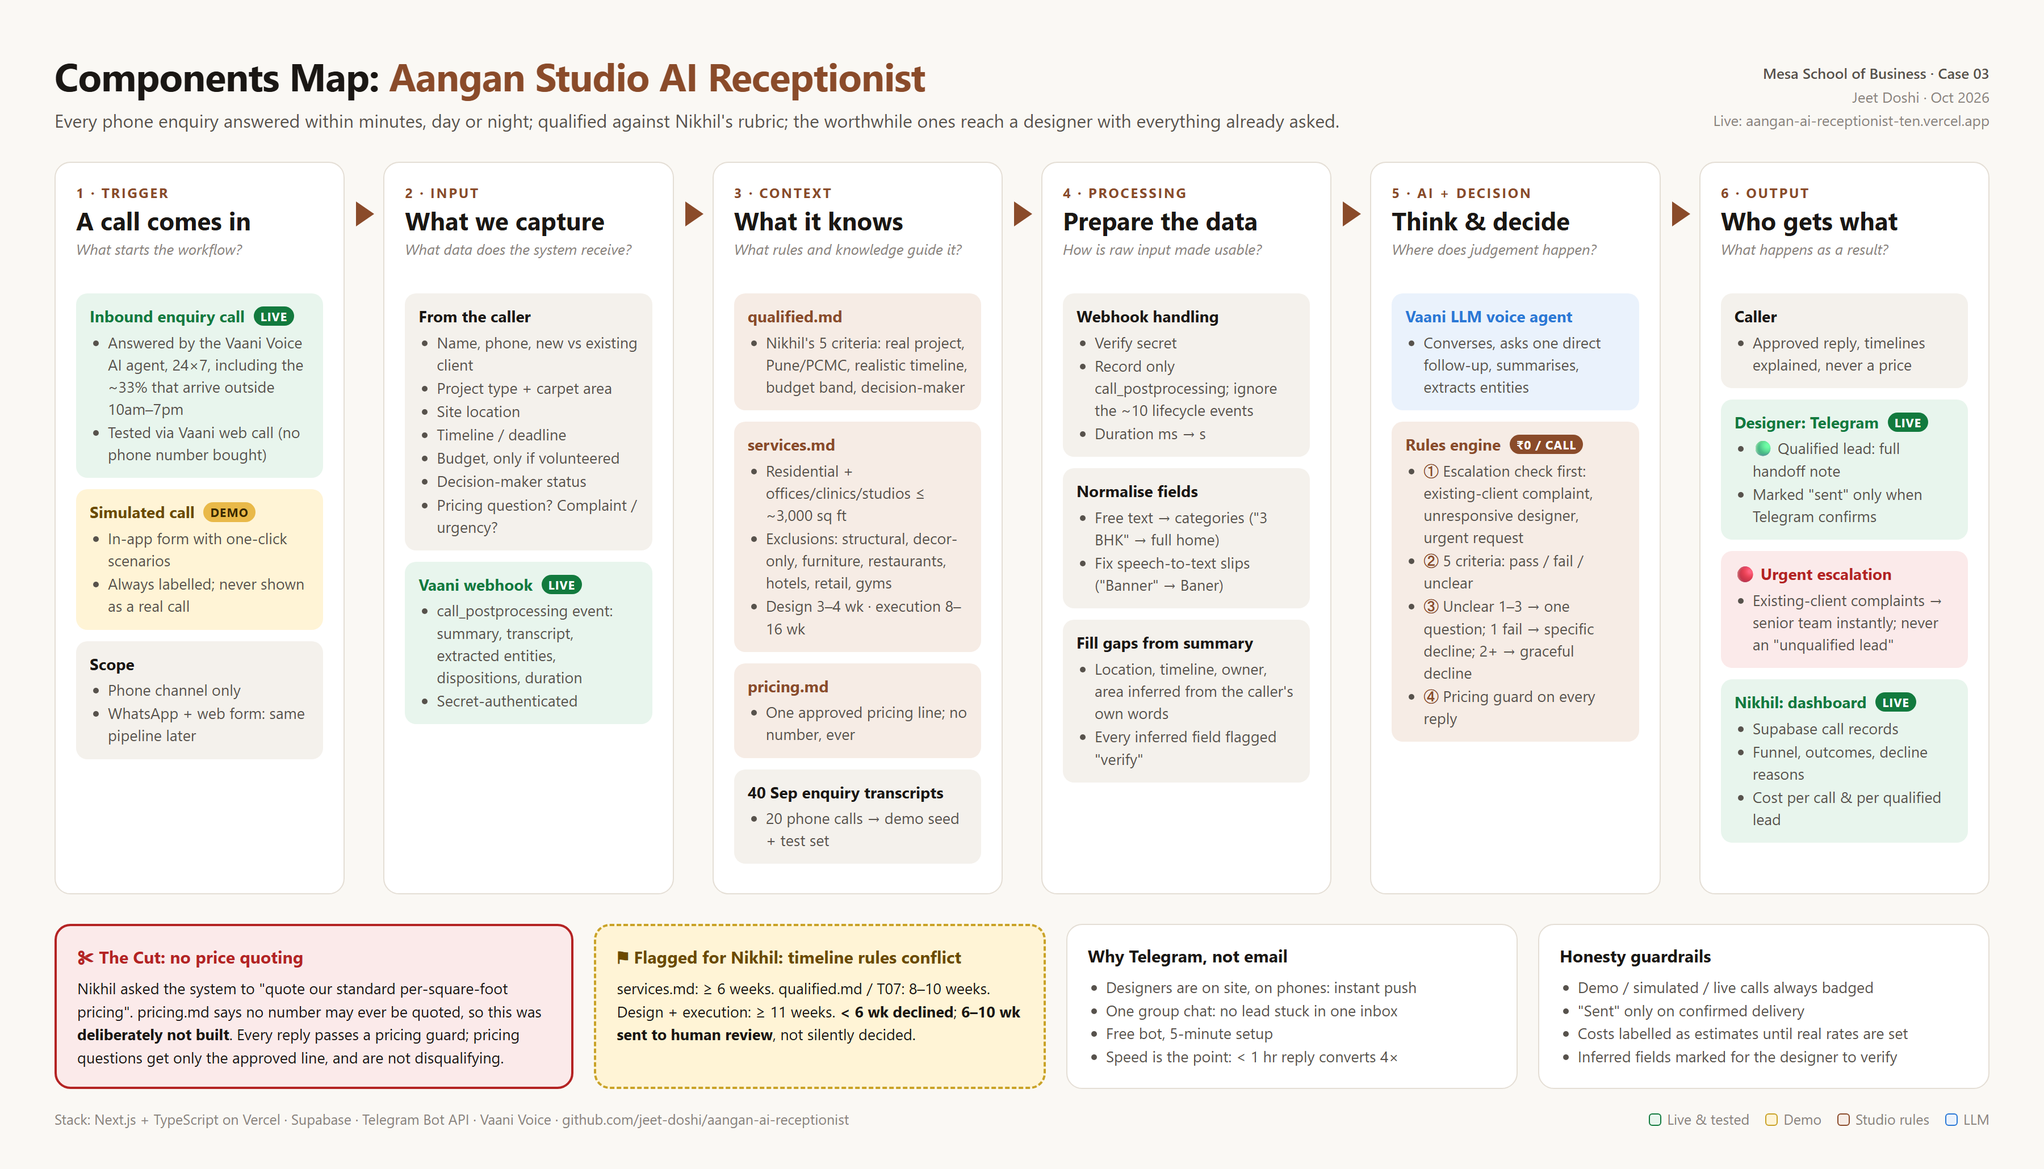
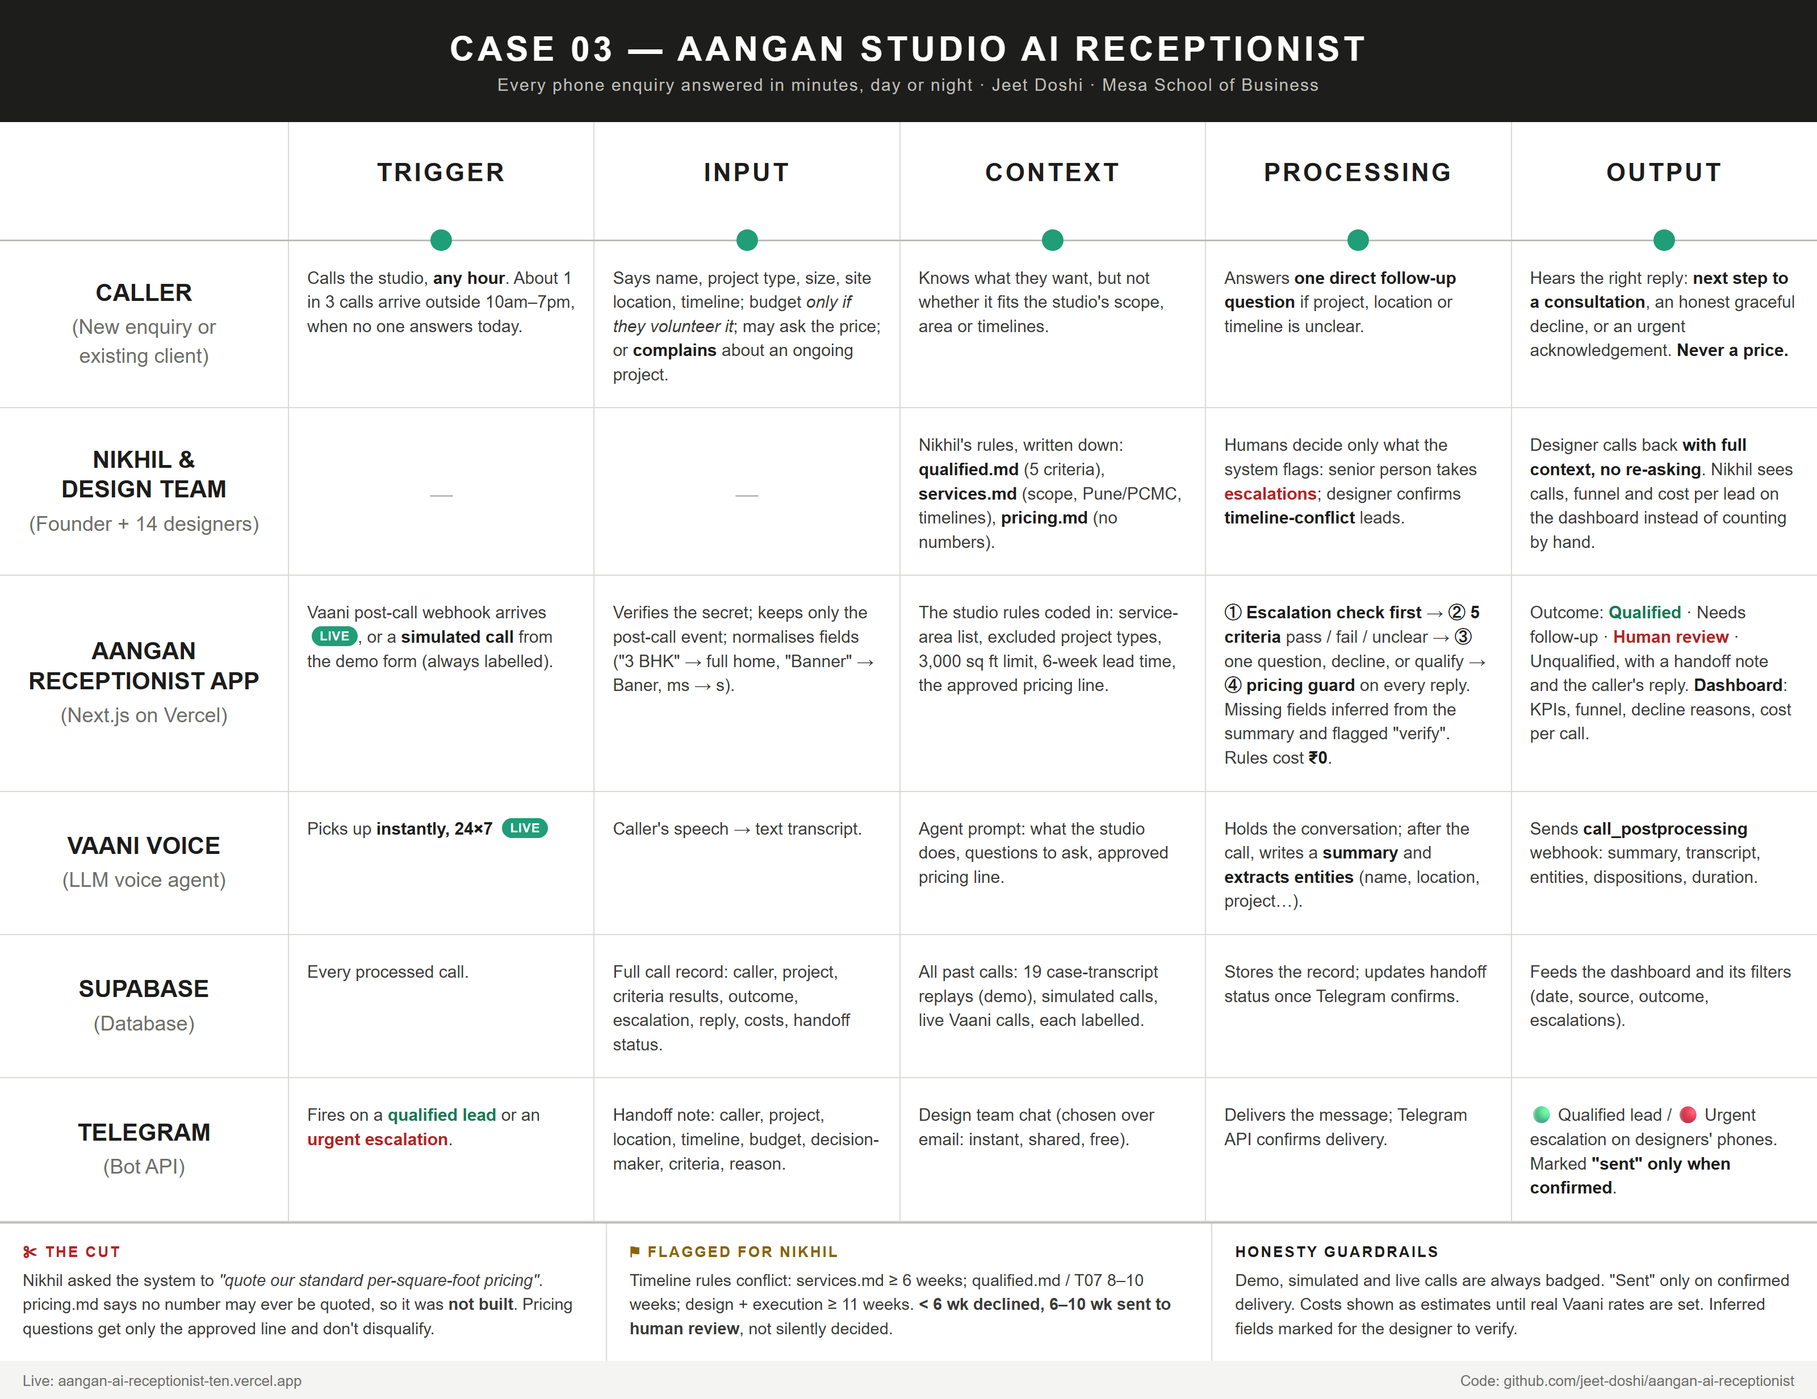
Redo Components Map in the class grid format (actors × Trigger→Output)

diff --git a/docs/components-map.html b/docs/components-map.html
@@ -4,173 +4,99 @@
 <meta charset="utf-8">
 <title>Components Map: Aangan AI Receptionist</title>
 <style>
-  :root {
-    --ink: #1a1714; --ink-2: #57524c; --muted: #8a847c; --line: #e4ded5; --page: #faf8f4; --card: #ffffff;
-    --brand: #8a4b2a; --brand-soft: #f6ece5; --blue: #2a78d6; --blue-soft: #eaf2fc;
-    --green: #127a3e; --green-soft: #e8f5ed; --red: #b42323; --red-soft: #fbeaea; --amber-soft: #fff4d6; --amber: #6b4a00;
-  }
   * { box-sizing: border-box; margin: 0; padding: 0; }
-  body { width: 1800px; background: var(--page); color: var(--ink); font-family: "Segoe UI", system-ui, sans-serif; padding: 44px 48px 40px; }
-  header { display: flex; justify-content: space-between; align-items: flex-end; margin-bottom: 26px; }
-  h1 { font-size: 34px; letter-spacing: -0.5px; }
-  h1 span { color: var(--brand); }
-  .sub { color: var(--ink-2); font-size: 16px; margin-top: 6px; }
-  .meta { text-align: right; color: var(--muted); font-size: 13px; line-height: 1.6; }
-  .meta b { color: var(--ink-2); font-weight: 600; }
-
-  .flow { display: grid; grid-template-columns: repeat(6, 1fr); gap: 34px; position: relative; }
-  .stage { background: var(--card); border: 1px solid var(--line); border-radius: 14px; padding: 18px 18px 16px; position: relative; display: flex; flex-direction: column; }
-  .stage:not(:last-child)::after {
-    content: ""; position: absolute; right: -27px; top: 34px; width: 0; height: 0;
-    border-top: 11px solid transparent; border-bottom: 11px solid transparent; border-left: 16px solid var(--brand);
-  }
-  .step { font-size: 12px; font-weight: 700; letter-spacing: 1.4px; color: var(--brand); text-transform: uppercase; }
-  .stage h2 { font-size: 22px; margin: 2px 0 2px; }
-  .q { font-size: 13px; color: var(--muted); font-style: italic; margin-bottom: 14px; min-height: 34px; }
-  .box { border-radius: 10px; padding: 10px 12px; margin-bottom: 10px; font-size: 13.5px; line-height: 1.45; }
-  .box b { display: block; font-size: 14px; margin-bottom: 3px; }
-  .box ul { padding-left: 16px; color: var(--ink-2); }
-  .box li { margin: 1px 0; }
-  .plain { background: #f4f1ec; }
-  .live { background: var(--green-soft); }
-  .live b { color: var(--green); }
-  .demo { background: var(--amber-soft); }
-  .demo b { color: var(--amber); }
-  .ai { background: var(--blue-soft); }
-  .ai b { color: var(--blue); }
-  .rules { background: var(--brand-soft); }
-  .rules b { color: var(--brand); }
-  .urgent { background: var(--red-soft); }
-  .urgent b { color: var(--red); }
-  .tag { display: inline-block; font-size: 10.5px; font-weight: 700; letter-spacing: .6px; padding: 1px 6px; border-radius: 99px; margin-left: 4px; vertical-align: 1px; }
-  .t-live { background: var(--green); color: #fff; }
-  .t-demo { background: #e9b949; color: #3a2a00; }
-  .t-free { background: var(--brand); color: #fff; }
-
-  .bottom { display: grid; grid-template-columns: 1.15fr 1fr 1fr 1fr; gap: 18px; margin-top: 26px; }
-  .panel { border-radius: 14px; padding: 16px 18px; font-size: 13.5px; line-height: 1.5; border: 1px solid var(--line); background: var(--card); }
-  .panel h3 { font-size: 15px; margin-bottom: 6px; }
-  .panel ul { padding-left: 16px; color: var(--ink-2); }
-  .cut { border: 2px solid var(--red); background: var(--red-soft); }
-  .cut h3 { color: var(--red); }
-  .flag { border: 2px dashed #c9a227; background: var(--amber-soft); }
-  .flag h3 { color: var(--amber); }
-  footer { margin-top: 18px; display: flex; justify-content: space-between; color: var(--muted); font-size: 12.5px; }
-  .legend span { margin-left: 14px; }
-  .sw { display: inline-block; width: 11px; height: 11px; border-radius: 3px; vertical-align: -1px; margin-right: 5px; }
+  body { width: 1600px; background: #fff; color: #1d1d1b; font-family: Arial, "Helvetica Neue", "Segoe UI", sans-serif; }
+  .bar { background: #1d1d1b; color: #fff; text-align: center; padding: 26px 0 24px; font-size: 30px; font-weight: 700; letter-spacing: 3px; }
+  .bar small { display: block; font-size: 15px; font-weight: 400; letter-spacing: 1px; color: #bdbdb8; margin-top: 6px; }
+  table { width: 100%; border-collapse: collapse; table-layout: fixed; }
+  col.label { width: 254px; }
+  th { height: 104px; font-size: 22px; letter-spacing: 2px; font-weight: 700; position: relative; border-left: 1px solid #d9d9d6; border-bottom: 1.5px solid #bdbdb8; vertical-align: middle; padding-bottom: 14px; }
+  th:first-child { border-left: none; }
+  th:not(:first-child)::after { content: ""; position: absolute; left: 50%; bottom: -10px; width: 19px; height: 19px; margin-left: -9.5px; border-radius: 50%; background: #1f9e78; }
+  td { border: 1px solid #d9d9d6; vertical-align: top; padding: 22px 16px 18px; font-size: 15px; line-height: 1.42; color: #3b3b38; }
+  tr td:first-child { border-left: none; vertical-align: middle; text-align: center; padding: 18px 12px; }
+  tr td:last-child { border-right: none; }
+  .who { font-size: 21px; font-weight: 700; color: #1d1d1b; line-height: 1.25; }
+  .role { font-size: 18px; color: #6f6f6b; margin-top: 4px; }
+  .none { color: #b9b9b5; text-align: center; vertical-align: middle; font-size: 20px; }
+  td b { color: #1d1d1b; }
+  .live { display: inline-block; font-size: 11px; font-weight: 700; letter-spacing: .5px; background: #1f9e78; color: #fff; border-radius: 99px; padding: 1px 7px; margin-left: 4px; vertical-align: 2px; }
+  .red { color: #b42323; font-weight: 700; }
+  .green { color: #157a52; font-weight: 700; }
+  .notes { display: grid; grid-template-columns: 1fr 1fr 1fr; border-top: 1.5px solid #bdbdb8; }
+  .notes div { padding: 16px 20px 18px; font-size: 14.5px; line-height: 1.45; color: #3b3b38; border-left: 1px solid #d9d9d6; }
+  .notes div:first-child { border-left: none; }
+  .notes h4 { font-size: 13px; letter-spacing: 1.5px; text-transform: uppercase; margin-bottom: 5px; color: #1d1d1b; }
+  .notes .cut h4 { color: #b42323; }
+  .notes .flag h4 { color: #8a6400; }
+  .foot { background: #f4f4f2; font-size: 13px; color: #6f6f6b; padding: 10px 20px; display: flex; justify-content: space-between; }
 </style>
 </head>
 <body>
-  <header>
-    <div>
-      <h1>Components Map: <span>Aangan Studio AI Receptionist</span></h1>
-      <p class="sub">Every phone enquiry answered within minutes, day or night; qualified against Nikhil's rubric; the worthwhile ones reach a designer with everything already asked.</p>
-    </div>
-    <div class="meta"><b>Mesa School of Business · Case 03</b><br>Jeet Doshi · Oct 2026<br>Live: aangan-ai-receptionist-ten.vercel.app</div>
-  </header>
+  <div class="bar">CASE 03 — AANGAN STUDIO AI RECEPTIONIST<small>Every phone enquiry answered in minutes, day or night · Jeet Doshi · Mesa School of Business</small></div>
+  <table>
+    <colgroup><col class="label"><col><col><col><col><col></colgroup>
+    <tr><th></th><th>TRIGGER</th><th>INPUT</th><th>CONTEXT</th><th>PROCESSING</th><th>OUTPUT</th></tr>
 
-  <section class="flow">
-    <!-- 1 TRIGGER -->
-    <div class="stage">
-      <div class="step">1 · Trigger</div>
-      <h2>A call comes in</h2>
-      <p class="q">What starts the workflow?</p>
-      <div class="box live"><b>Inbound enquiry call <span class="tag t-live">LIVE</span></b>
-        <ul><li>Answered by the Vaani Voice AI agent, 24×7, including the ~33% that arrive outside 10am–7pm</li><li>Tested via Vaani web call (no phone number bought)</li></ul></div>
-      <div class="box demo"><b>Simulated call <span class="tag t-demo">DEMO</span></b>
-        <ul><li>In-app form with one-click scenarios</li><li>Always labelled; never shown as a real call</li></ul></div>
-      <div class="box plain"><b>Scope</b>
-        <ul><li>Phone channel only</li><li>WhatsApp + web form: same pipeline later</li></ul></div>
-    </div>
+    <tr>
+      <td><div class="who">CALLER</div><div class="role">(New enquiry or<br>existing client)</div></td>
+      <td>Calls the studio, <b>any hour</b>. About 1 in 3 calls arrive outside 10am–7pm, when no one answers today.</td>
+      <td>Says name, project type, size, site location, timeline; budget <i>only if they volunteer it</i>; may ask the price; or <b>complains</b> about an ongoing project.</td>
+      <td>Knows what they want, but not whether it fits the studio's scope, area or timelines.</td>
+      <td>Answers <b>one direct follow-up question</b> if project, location or timeline is unclear.</td>
+      <td>Hears the right reply: <b>next step to a consultation</b>, an honest graceful decline, or an urgent acknowledgement. <b>Never a price.</b></td>
+    </tr>
 
-    <!-- 2 INPUT -->
-    <div class="stage">
-      <div class="step">2 · Input</div>
-      <h2>What we capture</h2>
-      <p class="q">What data does the system receive?</p>
-      <div class="box plain"><b>From the caller</b>
-        <ul><li>Name, phone, new vs existing client</li><li>Project type + carpet area</li><li>Site location</li><li>Timeline / deadline</li><li>Budget, only if volunteered</li><li>Decision-maker status</li><li>Pricing question? Complaint / urgency?</li></ul></div>
-      <div class="box live"><b>Vaani webhook <span class="tag t-live">LIVE</span></b>
-        <ul><li>call_postprocessing event: summary, transcript, extracted entities, dispositions, duration</li><li>Secret-authenticated</li></ul></div>
-    </div>
+    <tr>
+      <td><div class="who">NIKHIL &amp;<br>DESIGN TEAM</div><div class="role">(Founder + 14 designers)</div></td>
+      <td class="none">—</td>
+      <td class="none">—</td>
+      <td>Nikhil's rules, written down: <b>qualified.md</b> (5 criteria), <b>services.md</b> (scope, Pune/PCMC, timelines), <b>pricing.md</b> (no numbers).</td>
+      <td>Humans decide only what the system flags: senior person takes <span class="red">escalations</span>; designer confirms <b>timeline-conflict</b> leads.</td>
+      <td>Designer calls back <b>with full context, no re-asking</b>. Nikhil sees calls, funnel and cost per lead on the dashboard instead of counting by hand.</td>
+    </tr>
 
-    <!-- 3 CONTEXT -->
-    <div class="stage">
-      <div class="step">3 · Context</div>
-      <h2>What it knows</h2>
-      <p class="q">What rules and knowledge guide it?</p>
-      <div class="box rules"><b>qualified.md</b>
-        <ul><li>Nikhil's 5 criteria: real project, Pune/PCMC, realistic timeline, budget band, decision-maker</li></ul></div>
-      <div class="box rules"><b>services.md</b>
-        <ul><li>Residential + offices/clinics/studios ≤ ~3,000 sq ft</li><li>Exclusions: structural, decor-only, furniture, restaurants, hotels, retail, gyms</li><li>Design 3–4 wk · execution 8–16 wk</li></ul></div>
-      <div class="box rules"><b>pricing.md</b>
-        <ul><li>One approved pricing line; no number, ever</li></ul></div>
-      <div class="box plain"><b>40 Sep enquiry transcripts</b>
-        <ul><li>20 phone calls → demo seed + test set</li></ul></div>
-    </div>
+    <tr>
+      <td><div class="who">AANGAN<br>RECEPTIONIST APP</div><div class="role">(Next.js on Vercel)</div></td>
+      <td>Vaani post-call webhook arrives <span class="live">LIVE</span>, or a <b>simulated call</b> from the demo form (always labelled).</td>
+      <td>Verifies the secret; keeps only the post-call event; normalises fields ("3 BHK" → full home, "Banner" → Baner, ms → s).</td>
+      <td>The studio rules coded in: service-area list, excluded project types, 3,000 sq ft limit, 6-week lead time, the approved pricing line.</td>
+      <td><b>① Escalation check first</b> → <b>② 5 criteria</b> pass / fail / unclear → <b>③</b> one question, decline, or qualify → <b>④ pricing guard</b> on every reply. Missing fields inferred from the summary and flagged "verify". Rules cost <b>₹0</b>.</td>
+      <td>Outcome: <span class="green">Qualified</span> · Needs follow-up · <span class="red">Human review</span> · Unqualified, with a handoff note and the caller's reply. <b>Dashboard</b>: KPIs, funnel, decline reasons, cost per call.</td>
+    </tr>
 
-    <!-- 4 PROCESSING -->
-    <div class="stage">
-      <div class="step">4 · Processing</div>
-      <h2>Prepare the data</h2>
-      <p class="q">How is raw input made usable?</p>
-      <div class="box plain"><b>Webhook handling</b>
-        <ul><li>Verify secret</li><li>Record only call_postprocessing; ignore the ~10 lifecycle events</li><li>Duration ms → s</li></ul></div>
-      <div class="box plain"><b>Normalise fields</b>
-        <ul><li>Free text → categories ("3 BHK" → full home)</li><li>Fix speech-to-text slips ("Banner" → Baner)</li></ul></div>
-      <div class="box plain"><b>Fill gaps from summary</b>
-        <ul><li>Location, timeline, owner, area inferred from the caller's own words</li><li>Every inferred field flagged "verify"</li></ul></div>
-    </div>
+    <tr>
+      <td><div class="who">VAANI VOICE</div><div class="role">(LLM voice agent)</div></td>
+      <td>Picks up <b>instantly, 24×7</b> <span class="live">LIVE</span></td>
+      <td>Caller's speech → text transcript.</td>
+      <td>Agent prompt: what the studio does, questions to ask, approved pricing line.</td>
+      <td>Holds the conversation; after the call, writes a <b>summary</b> and <b>extracts entities</b> (name, location, project…).</td>
+      <td>Sends <b>call_postprocessing</b> webhook: summary, transcript, entities, dispositions, duration.</td>
+    </tr>
 
-    <!-- 5 AI -->
-    <div class="stage">
-      <div class="step">5 · AI + decision</div>
-      <h2>Think &amp; decide</h2>
-      <p class="q">Where does judgement happen?</p>
-      <div class="box ai"><b>Vaani LLM voice agent</b>
-        <ul><li>Converses, asks one direct follow-up, summarises, extracts entities</li></ul></div>
-      <div class="box rules"><b>Rules engine <span class="tag t-free">₹0 / CALL</span></b>
-        <ul><li><b style="display:inline;font-size:13px">①</b> Escalation check first: existing-client complaint, unresponsive designer, urgent request</li><li><b style="display:inline;font-size:13px">②</b> 5 criteria: pass / fail / unclear</li><li><b style="display:inline;font-size:13px">③</b> Unclear 1–3 → one question; 1 fail → specific decline; 2+ → graceful decline</li><li><b style="display:inline;font-size:13px">④</b> Pricing guard on every reply</li></ul></div>
-    </div>
+    <tr>
+      <td><div class="who">SUPABASE</div><div class="role">(Database)</div></td>
+      <td>Every processed call.</td>
+      <td>Full call record: caller, project, criteria results, outcome, escalation, reply, costs, handoff status.</td>
+      <td>All past calls: 19 case-transcript replays (demo), simulated calls, live Vaani calls, each labelled.</td>
+      <td>Stores the record; updates handoff status once Telegram confirms.</td>
+      <td>Feeds the dashboard and its filters (date, source, outcome, escalations).</td>
+    </tr>
 
-    <!-- 6 OUTPUT -->
-    <div class="stage">
-      <div class="step">6 · Output</div>
-      <h2>Who gets what</h2>
-      <p class="q">What happens as a result?</p>
-      <div class="box plain"><b>Caller</b>
-        <ul><li>Approved reply, timelines explained, never a price</li></ul></div>
-      <div class="box live"><b>Designer: Telegram <span class="tag t-live">LIVE</span></b>
-        <ul><li>🟢 Qualified lead: full handoff note</li><li>Marked "sent" only when Telegram confirms</li></ul></div>
-      <div class="box urgent"><b>🔴 Urgent escalation</b>
-        <ul><li>Existing-client complaints → senior team instantly; never an "unqualified lead"</li></ul></div>
-      <div class="box live"><b>Nikhil: dashboard <span class="tag t-live">LIVE</span></b>
-        <ul><li>Supabase call records</li><li>Funnel, outcomes, decline reasons</li><li>Cost per call &amp; per qualified lead</li></ul></div>
-    </div>
-  </section>
-
-  <section class="bottom">
-    <div class="panel cut">
-      <h3>✂ The Cut: no price quoting</h3>
-      <p>Nikhil asked the system to "quote our standard per-square-foot pricing". pricing.md says no number may ever be quoted, so this was <b>deliberately not built</b>. Every reply passes a pricing guard; pricing questions get only the approved line, and are not disqualifying.</p>
-    </div>
-    <div class="panel flag">
-      <h3>⚑ Flagged for Nikhil: timeline rules conflict</h3>
-      <p>services.md: ≥ 6 weeks. qualified.md / T07: 8–10 weeks. Design + execution: ≥ 11 weeks. <b>&lt; 6 wk declined</b>; <b>6–10 wk sent to human review</b>, not silently decided.</p>
-    </div>
-    <div class="panel">
-      <h3>Why Telegram, not email</h3>
-      <ul><li>Designers are on site, on phones: instant push</li><li>One group chat: no lead stuck in one inbox</li><li>Free bot, 5-minute setup</li><li>Speed is the point: &lt; 1 hr reply converts 4×</li></ul>
-    </div>
-    <div class="panel">
-      <h3>Honesty guardrails</h3>
-      <ul><li>Demo / simulated / live calls always badged</li><li>"Sent" only on confirmed delivery</li><li>Costs labelled as estimates until real rates are set</li><li>Inferred fields marked for the designer to verify</li></ul>
-    </div>
-  </section>
-
-  <footer>
-    <div>Stack: Next.js + TypeScript on Vercel · Supabase · Telegram Bot API · Vaani Voice · github.com/jeet-doshi/aangan-ai-receptionist</div>
-    <div class="legend"><span><i class="sw" style="background:var(--green-soft);border:1px solid var(--green)"></i>Live &amp; tested</span><span><i class="sw" style="background:var(--amber-soft);border:1px solid #c9a227"></i>Demo</span><span><i class="sw" style="background:var(--brand-soft);border:1px solid var(--brand)"></i>Studio rules</span><span><i class="sw" style="background:var(--blue-soft);border:1px solid var(--blue)"></i>LLM</span></div>
-  </footer>
+    <tr>
+      <td><div class="who">TELEGRAM</div><div class="role">(Bot API)</div></td>
+      <td>Fires on a <span class="green">qualified lead</span> or an <span class="red">urgent escalation</span>.</td>
+      <td>Handoff note: caller, project, location, timeline, budget, decision-maker, criteria, reason.</td>
+      <td>Design team chat (chosen over email: instant, shared, free).</td>
+      <td>Delivers the message; Telegram API confirms delivery.</td>
+      <td>🟢 Qualified lead / 🔴 Urgent escalation on designers' phones. Marked <b>"sent" only when confirmed</b>.</td>
+    </tr>
+  </table>
+  <div class="notes">
+    <div class="cut"><h4>✂ The Cut</h4>Nikhil asked the system to <i>"quote our standard per-square-foot pricing"</i>. pricing.md says no number may ever be quoted, so it was <b>not built</b>. Pricing questions get only the approved line and don't disqualify.</div>
+    <div class="flag"><h4>⚑ Flagged for Nikhil</h4>Timeline rules conflict: services.md ≥ 6 weeks; qualified.md / T07 8–10 weeks; design + execution ≥ 11 weeks. <b>&lt; 6 wk declined, 6–10 wk sent to human review</b>, not silently decided.</div>
+    <div><h4>Honesty guardrails</h4>Demo, simulated and live calls are always badged. "Sent" only on confirmed delivery. Costs shown as estimates until real Vaani rates are set. Inferred fields marked for the designer to verify.</div>
+  </div>
+  <div class="foot"><span>Live: aangan-ai-receptionist-ten.vercel.app</span><span>Code: github.com/jeet-doshi/aangan-ai-receptionist</span></div>
 </body>
 </html>
